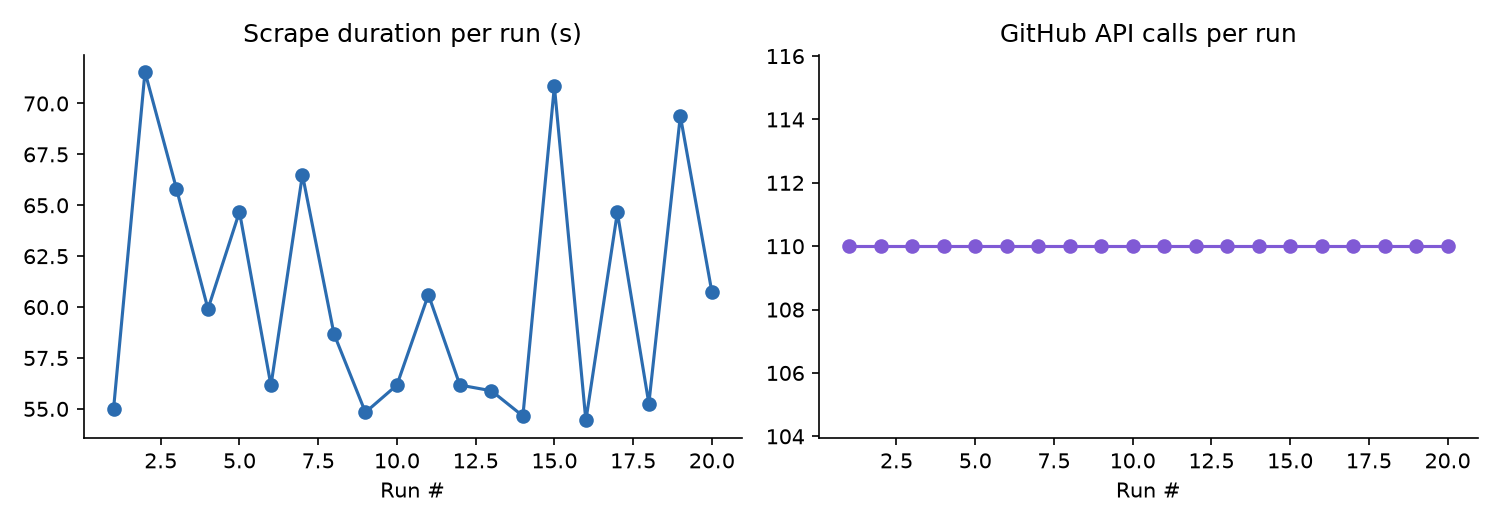
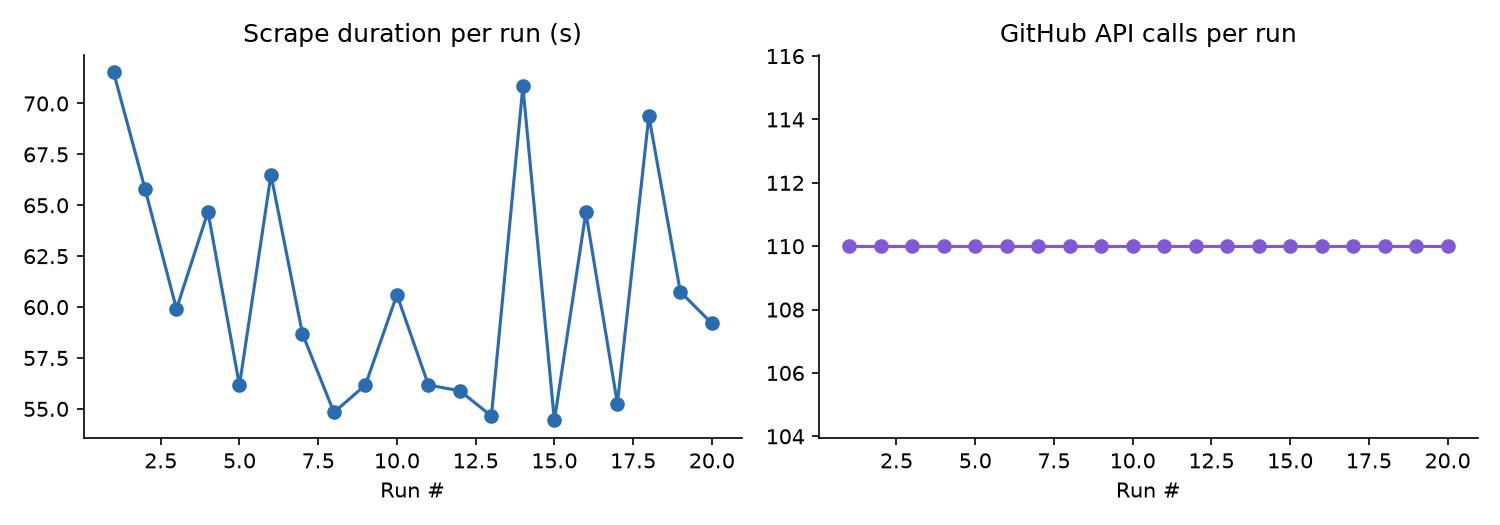
Weekly issue tracker refresh

Changed region(s): [[0.0613, 0.1219, 0.4907, 0.8229], [0.0613, 0.7619, 0.092, 0.7924]]

diff --git a/README.md b/README.md
@@ -81,7 +81,7 @@ See [CONTRIBUTING.md](CONTRIBUTING.md) for the full contributor workflow — inc
 
 <!-- TRACKER:START -->
 
-_Last updated: 2026-08-16 14:14 UTC_
+_Last updated: 2026-08-16 14:40 UTC_
 
 _Tracking **18** upstream repos, **386** relevant open issues._
 
@@ -296,7 +296,7 @@ _Tracking **18** upstream repos, **386** relevant open issues._
 
 <!-- METRICS:START -->
 
-_Last run: 2026-08-16 14:13 UTC, took **60.7s**, **110** GitHub API calls, **4890/5000** rate limit remaining._
+_Last run: 2026-08-16 14:39 UTC, took **59.2s**, **110** GitHub API calls, **4780/5000** rate limit remaining._
 
 ![Scrape metrics trend](assets/metrics_trend.png)
 
